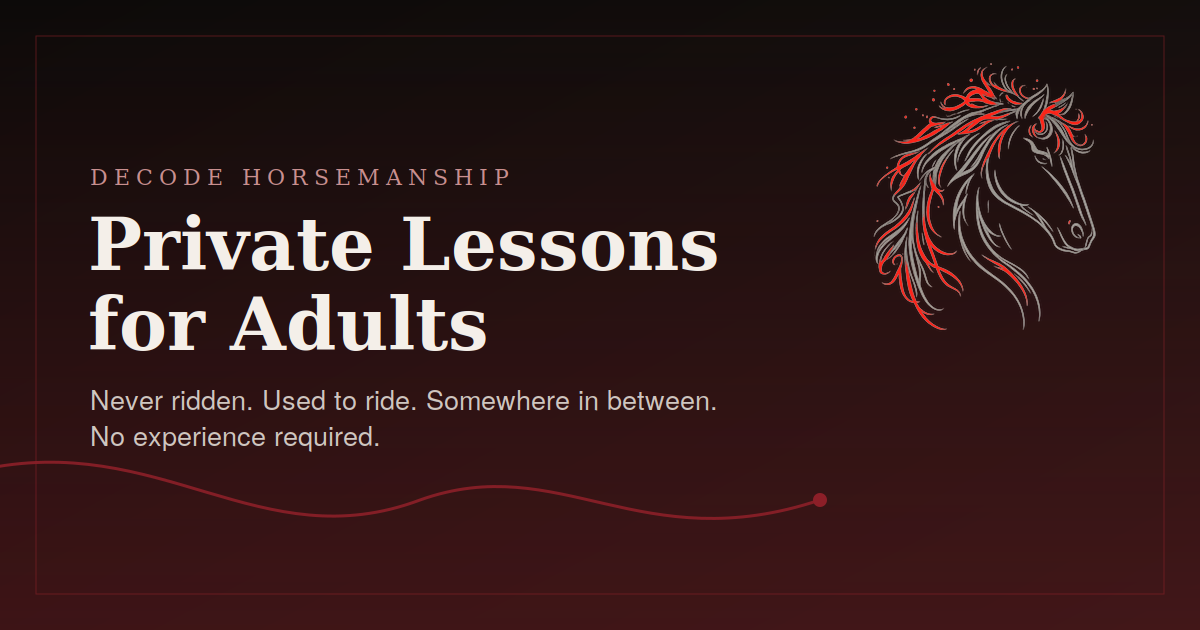
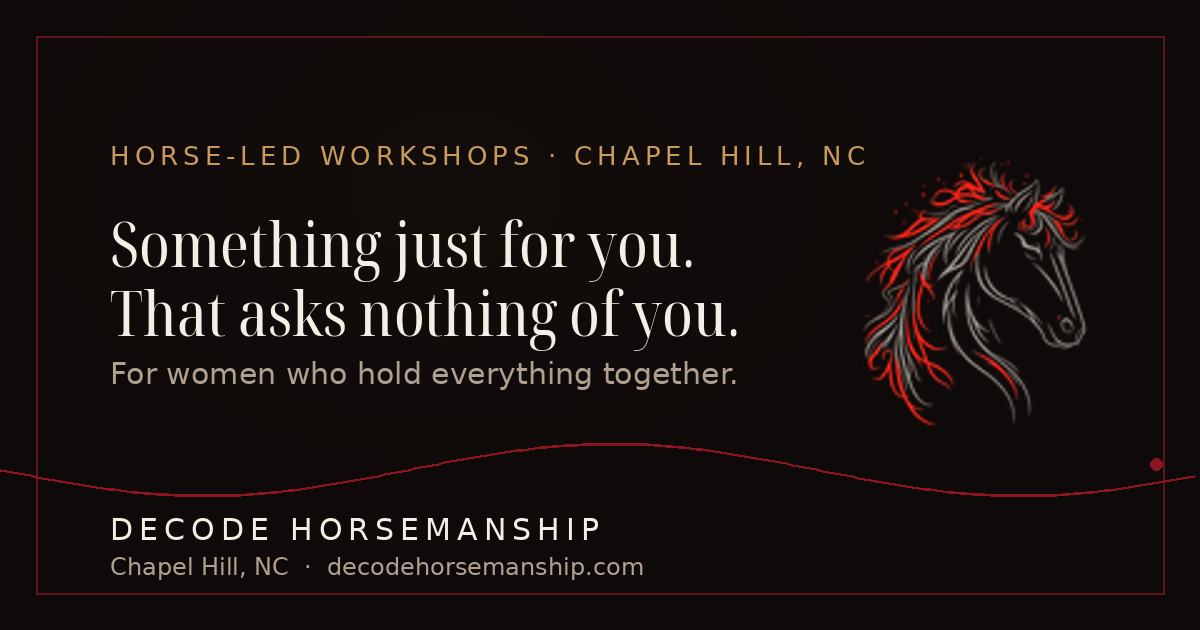
Use dedicated OG image for /experiences and refresh main OG image

diff --git a/src/app/experiences/layout.tsx b/src/app/experiences/layout.tsx
@@ -12,6 +12,19 @@ export const metadata: Metadata = {
     description: "Horse-led workshops in Chapel Hill, NC for first-timers, leaders, teams, and lifelong horse lovers. Ground-based, small groups, no horse experience required.",
     type: "website",
     siteName: "Decode Horsemanship",
+    images: [
+      {
+        url: "/og-image-experiences.png",
+        width: 1200,
+        height: 630,
+      },
+    ],
+  },
+  twitter: {
+    card: "summary_large_image",
+    title: "Workshops & Experiences — Decode Horsemanship",
+    description: "Horse-led workshops in Chapel Hill, NC for first-timers, leaders, teams, and lifelong horse lovers. Ground-based, small groups, no horse experience required.",
+    images: ["/og-image-experiences.png"],
   },
 };
 
